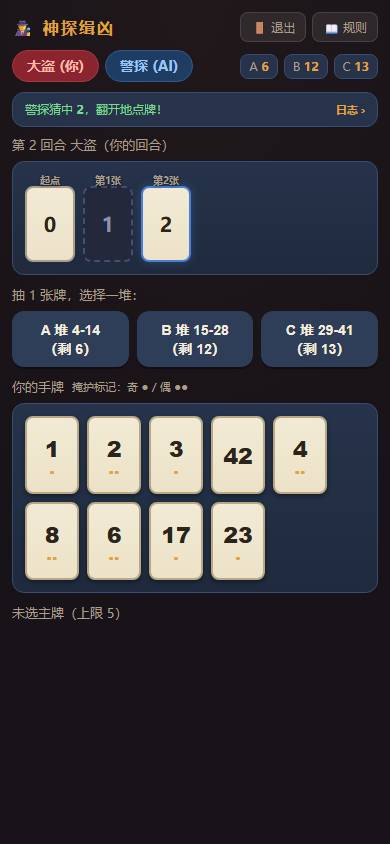
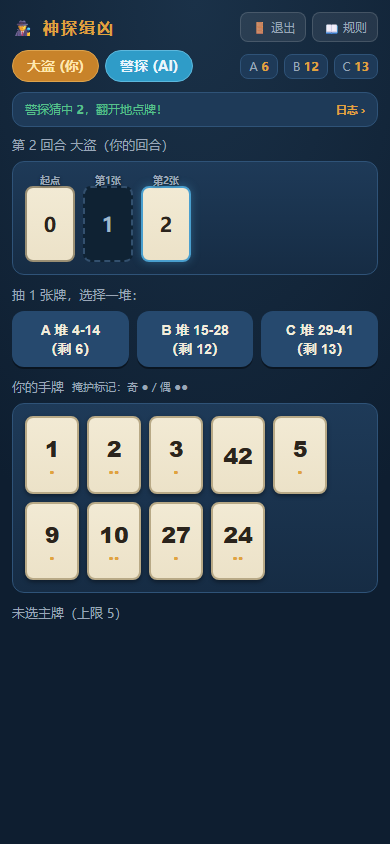
feat(神探缉凶配色优化)

diff --git a/fugitive/style.css b/fugitive/style.css
@@ -1,20 +1,25 @@
 :root {
-  /* 原版桌游配色：手提箱绯红 · 版图夜蓝 · 侦探绿 · 提示板米纸 */
-  --bg:#20181b;          /* 深红褐黑（盒身暗部） */
-  --bg-2:#181318;        /* 渐变暗角 */
-  --surface:#26334a;     /* 版图夜蓝（面板） */
-  --card-bg:#2e3d58;     /* 深蓝卡面（版图街底色） */
-  --paper:#ece2c8;       /* 提示板米纸（卡牌/网格） */
+  /* 深蓝夜色主题：配色取自 Fugitive II 盒子封面（夜空蓝主族 90% + 暖色人物点缀） */
+  --bg:#1a3148;          /* 夜空蓝底 */
+  --bg-2:#0e1e30;        /* 夜空暗角 */
+  --surface:#1e3a58;     /* 面板蓝 */
+  --surface-2:#162c44;   /* 面板渐变下部 */
+  --line:#2f5378;        /* 蓝描边 */
+  --card-bg:#26496e;     /* 按钮底 */
+  --paper:#ece2c8;       /* 米纸卡面（暖点缀，同原版卡牌/盒面人物） */
   --ink:#2b241c;         /* 米纸上深棕数字 */
-  --ink-dim:#8a7f6a;     /* 米纸上弱化文字 */
-  --accent:#a82934;      /* 盒子绯红（主按钮/警探主色） */
-  --accent-hi:#c33a44;   /* 绯红亮面 */
-  --fug:#8a2530;         /* 大盗酒红 */
-  --gold:#e0a33e;        /* 暖金（线索/掩护） */
-  --text:#f4ecdc;        /* 暖白正文 */
-  --text-dim:#a99f8b;    /* 暖灰弱化 */
-  --safe:#3e6b4f;        /* 侦探绿（命中/翻开） */
-  --danger:#d0454c;      /* 失误红 */
+  --ink-dim:#9a8f74;     /* 米纸上弱化文字 */
+  --accent:#d9902f;      /* 琥珀金（大盗/主按钮） */
+  --accent-hi:#e8a94d;   /* 琥珀亮面 */
+  --fug:#c8832a;         /* 深琥珀（大盗标签） */
+  --mar:#2f9cc8;         /* 亮蓝（警探/翻开） */
+  --mar-hi:#57b5da;      /* 亮蓝亮面 */
+  --gold:#e0a33e;        /* 暖金（线索/掩护/标题） */
+  --text:#f2ecdc;        /* 暖白正文 */
+  --text-dim:#9aa7b8;    /* 蓝灰弱化 */
+  --safe:#4daa7d;        /* 命中青绿 */
+  --danger:#e2555a;      /* 失误红 */
+  --shadow:rgba(0,0,0,.35);
   --radius:12px; --btn-h:56px;
 }
 * { margin:0; padding:0; box-sizing:border-box; -webkit-tap-highlight-color:transparent; }
@@ -22,30 +27,35 @@ body { font-family:-apple-system,system-ui,"PingFang SC","Microsoft YaHei",sans-
 #app { max-width:520px; margin:0 auto; padding:12px 12px 0; }
 
 /* ===== 通用 ===== */
-.btn { height:var(--btn-h); padding:0 20px; border:none; border-radius:var(--radius); background:var(--card-bg); color:var(--text); font-size:16px; font-weight:600; cursor:pointer; box-shadow:0 2px 0 rgba(0,0,0,.35); }
-.btn:active { filter:brightness(1.3); }
-.btn-primary { background:linear-gradient(180deg, var(--accent-hi), var(--accent)); }
-.btn-gold { background:linear-gradient(180deg, #e8b45c, var(--gold)); color:#2b241c; }
+.btn { height:var(--btn-h); padding:0 20px; border:none; border-radius:var(--radius); background:var(--card-bg); color:var(--text); font-size:16px; font-weight:600; cursor:pointer; box-shadow:0 2px 0 rgba(0,0,0,.4); }
+.btn:active { filter:brightness(1.25); }
+.btn-primary { background:linear-gradient(180deg, var(--accent-hi), var(--accent)); color:#33270f; }
+/* 登录页身份卡：大盗=--fug色系，警探=--mar色系，随机=描边金幽灵（2026-08-31） */
+.btn-fug { background:linear-gradient(180deg, var(--accent-hi), var(--fug)); color:#33270f; box-shadow:0 2px 0 #7a5313; }
+.role-btn.btn-fug .de { color:#3f2d0a; }
+.btn-mar { background:linear-gradient(180deg, var(--mar-hi), var(--mar)); color:#0c2033; box-shadow:0 2px 0 #176083; }
+.role-btn.btn-mar .de { color:#0f3144; }
+.btn-random { background:transparent; border:1.5px solid var(--gold); color:var(--gold); box-shadow:none; }
+.role-btn.btn-random .de { color:#c9a45c; }
 .btn-ghost { background:transparent; border:1px solid var(--text-dim); color:var(--text-dim); box-shadow:none; }
 .btn:disabled { opacity:.4; box-shadow:none; }
 .badge { display:inline-block; padding:3px 10px; border-radius:999px; font-size:12px; font-weight:700; }
 
 /* ===== 登录页（居中布局，参考无赖勇者/月面探险） ===== */
 #landing { display:flex; flex-direction:column; align-items:center; justify-content:center; min-height:calc(100dvh - 30px); padding:40px 20px 30px; text-align:center; position:relative; }
-#landing .hero-icon { font-size:52px; margin-bottom:10px; filter:drop-shadow(0 0 16px rgba(224,163,62,.35)); animation:heroFloat 3.2s ease-in-out infinite; }
-@keyframes heroFloat { 0%,100% { transform:translateY(0); } 50% { transform:translateY(-6px); } }
+#landing .hero-icon { font-size:52px; margin-bottom:10px; filter:drop-shadow(0 0 16px rgba(224,163,62,.35)); }
 #landing h1 { font-size:34px; letter-spacing:6px; margin-bottom:8px; color:var(--gold); text-shadow:0 2px 0 rgba(0,0,0,.5); }
 #landing .sub { color:var(--text-dim); font-size:14px; letter-spacing:3px; margin-bottom:18px; }
-#landing .badge { background:var(--fug); color:var(--gold); margin-bottom:32px; font-size:13px; padding:6px 16px; }
+#landing .badge { background:var(--surface); color:#ffe6b0; margin-bottom:32px; font-size:13px; padding:6px 16px; }
 .role-btn { display:flex; flex-direction:row; align-items:center; gap:14px; width:min(320px,86vw); height:auto; min-height:68px; padding:10px 18px; margin-bottom:12px; text-align:left; }
 .role-btn .em { font-size:28px; flex-shrink:0; }
 .role-btn .rt { display:flex; flex-direction:column; gap:2px; line-height:1.35; }
 .role-btn .rt b { font-size:16px; }
 .role-btn .de { font-size:12px; color:var(--text-dim); font-weight:400; }
-.btn-gold .de { color:#6b5420; }
+.btn-blue .de { color:#cfe6f5; }
 #landing .rules-corner { position:absolute; top:max(16px, env(safe-area-inset-top)); right:16px; }
-#landing .rules-corner button { background:var(--surface); border:1px solid rgba(255,255,255,0.12); border-radius:10px; padding:7px 12px; font-size:13px; cursor:pointer; color:var(--text); }
-#landing .rules-corner button:active { background:#252530; }
+#landing .rules-corner button { background:var(--surface); border:1px solid rgba(255,255,255,.14); border-radius:10px; padding:7px 12px; font-size:13px; cursor:pointer; color:var(--text); }
+#landing .rules-corner button:active { background:#27405f; }
 .credit { position:absolute; bottom:14px; left:0; right:0; color:var(--text-dim); font-size:12px; opacity:.7; }
 
 /* ===== 顶栏（两行：标题行 / 角色+牌堆行） ===== */
@@ -54,35 +64,35 @@ body { font-family:-apple-system,system-ui,"PingFang SC","Microsoft YaHei",sans-
 .tb-title { font-size:16px; margin:0; color:var(--gold); letter-spacing:2px; display:flex; align-items:center; gap:6px; }
 .tb-btns { display:flex; gap:6px; }
 .role-tag { padding:6px 14px; border-radius:999px; font-size:14px; font-weight:700; }
-.role-fug { background:var(--fug); color:#ffb9a8; border:1px solid #a83740; }
-.role-mar { background:#1f3d63; color:#9cc6f5; border:1px solid #2f5a8f; }
+.role-fug { background:var(--fug); color:#ffe6b0; border:1px solid #dda34d; }
+.role-mar { background:var(--mar); color:#eaf6fc; border:1px solid #5db8dd; }
 .tb-left { display:flex; align-items:center; gap:6px; }
 .tb-right { display:flex; align-items:center; gap:6px; flex-wrap:wrap; }
 .pile-box { display:flex; gap:6px; }
-.pile { background:var(--surface); border:1px solid #3a4d70; border-radius:8px; padding:4px 8px; font-size:12px; color:var(--text-dim); }
+.pile { background:var(--surface); border:1px solid var(--line); border-radius:8px; padding:4px 8px; font-size:12px; color:var(--text-dim); }
 .pile b { color:var(--gold); }
-.icon-btn { background:rgba(255,255,255,0.08); border:1px solid rgba(255,255,255,0.12); color:var(--text-dim); padding:6px 10px; border-radius:8px; font-size:12px; cursor:pointer; }
-.icon-btn:active { background:rgba(255,255,255,0.16); }
+.icon-btn { background:rgba(255,255,255,.08); border:1px solid rgba(255,255,255,.14); color:var(--text-dim); padding:6px 10px; border-radius:8px; font-size:12px; cursor:pointer; }
+.icon-btn:active { background:rgba(255,255,255,.16); }
 .hint { font-size:13px; color:var(--text-dim); margin:4px 0 8px; }
 
 /* ===== 出牌区 ===== */
-#track { display:flex; flex-wrap:wrap; gap:20px 8px; align-items:flex-start; padding:24px 12px 12px; background:linear-gradient(180deg, var(--surface), #1f2a3e); border:1px solid #3a4d70; border-radius:var(--radius); min-height:110px; margin-bottom:12px; }
+#track { display:flex; flex-wrap:wrap; gap:20px 8px; align-items:flex-start; padding:24px 12px 12px; background:linear-gradient(180deg, var(--surface), var(--surface-2)); border:1px solid var(--line); border-radius:var(--radius); min-height:110px; margin-bottom:12px; }
 .t-card { position:relative; width:calc((100% - 40px)/6); height:76px; border-radius:8px; display:flex; flex-direction:column; align-items:center; justify-content:center; font-weight:800; font-size:20px; flex-shrink:0; }
 .t-card .idx { position:absolute; top:-14px; left:0; right:0; text-align:center; font-size:10px; color:var(--text-dim); text-shadow:0 1px 3px rgba(0,0,0,.6); }
 .t-card .sprint { font-size:9px; color:var(--text-dim); font-weight:400; margin-top:2px; }
 .t-card .cov { font-size:9px; color:var(--ink-dim); font-weight:400; margin-top:2px; }
-.t-open { background:linear-gradient(180deg, #f2ead4, var(--paper)); border:2px solid #4a7fd4; color:var(--ink); box-shadow:0 0 10px rgba(74,127,212,.35); }
-.t-hidden { background:#23283a; border:2px dashed #454e6e; color:#8a93b5; }
-.t-hidden .q { color:#5a6484; font-size:26px; }
-.t-hidden .cov { color:#7c86a8; }
+.t-open { background:linear-gradient(180deg, #f2ead4, var(--paper)); border:2px solid #4a9fce; color:var(--ink); box-shadow:0 0 10px rgba(74,159,206,.4); }
+.t-hidden { background:#0f2233; border:2px dashed #33506e; color:#9fb8cc; }
+.t-hidden .q { color:#6c8aa6; font-size:26px; }
+.t-hidden .cov { color:#8aa6bd; }
 .t-arrow { align-self:center; color:var(--text-dim); font-size:16px; }
-.t-start { border:2px solid var(--text-dim); background:linear-gradient(180deg, #f2ead4, var(--paper)); color:var(--ink); }
+.t-start { border:2px solid var(--ink-dim); background:linear-gradient(180deg, #f2ead4, var(--paper)); color:var(--ink); }
 
 /* ===== 手牌区 ===== */
 .section-title { font-size:13px; color:var(--text-dim); margin:4px 0 8px; display:flex; align-items:center; gap:8px; }
-#hand { display:flex; flex-wrap:wrap; gap:8px; padding:12px; background:linear-gradient(180deg, var(--surface), #1f2a3e); border:1px solid #3a4d70; border-radius:var(--radius); min-height:96px; margin-bottom:12px; }
+#hand { display:flex; flex-wrap:wrap; gap:8px; padding:12px; background:linear-gradient(180deg, var(--surface), var(--surface-2)); border:1px solid var(--line); border-radius:var(--radius); min-height:96px; margin-bottom:12px; }
 .h-card { width:54px; height:78px; border-radius:8px; background:linear-gradient(180deg, #f2ead4, var(--paper)); border:2px solid #b8a986; color:var(--ink); display:flex; flex-direction:column; align-items:center; justify-content:center; font-size:22px; font-weight:800; cursor:pointer; position:relative; flex-shrink:0; box-shadow:0 2px 4px rgba(0,0,0,.4); }
-.h-card .mk { font-size:9px; color:var(--gold); /*letter-spacing:-2px;*/ margin-top:1px; }
+.h-card .mk { font-size:9px; color:var(--gold); margin-top:1px; }
 .h-card.sel-main { border-color:var(--accent); background:linear-gradient(180deg, #e8c9b0, #e0b89c); transform:translateY(-6px); }
 .h-card.sel-cover { border-color:var(--gold); background:linear-gradient(180deg, #efe3c2, #e2cf9f); }
 .h-card.sel-cover::after { content:'掩'; position:absolute; top:-8px; right:-6px; background:var(--gold); color:#2b241c; font-size:10px; border-radius:6px; padding:1px 5px; font-weight:800; }
@@ -96,32 +106,37 @@ body { font-family:-apple-system,system-ui,"PingFang SC","Microsoft YaHei",sans-
 .pick-label { font-size:13px; color:var(--text-dim); margin-bottom:8px; }
 
 /* ===== 警探猜测网格（提示板纸感） ===== */
-.num-grid { display:grid; grid-template-columns:repeat(7,1fr); gap:6px; padding:12px; background:linear-gradient(180deg, var(--surface), #1f2a3e); border:1px solid #3a4d70; border-radius:var(--radius); margin-bottom:12px; }
+.num-grid { display:grid; grid-template-columns:repeat(7,1fr); gap:6px; padding:12px; background:linear-gradient(180deg, var(--surface), var(--surface-2)); border:1px solid var(--line); border-radius:var(--radius); margin-bottom:12px; }
 .g-cell { height:40px; border:none; border-radius:8px; background:linear-gradient(180deg, #f2ead4, var(--paper)); color:var(--ink); font-size:15px; font-weight:700; cursor:pointer; box-shadow:0 1px 2px rgba(0,0,0,.35); }
 .g-cell:disabled { opacity:.3; cursor:default; box-shadow:none; }
-.g-cell.sel { background:var(--accent-hi); color:#fff; transform:scale(1.08); }
+.g-cell.sel { background:var(--accent-hi); color:#33270f; transform:scale(1.08); }
 .g-cell.sel-warn { background:var(--danger); color:#fff; transform:scale(1.08); }
 
 /* ===== 日志（单行置顶 + 抽屉） ===== */
-#log { background:var(--surface); border:1px solid #3a4d70; border-radius:var(--radius); padding:9px 12px; margin-bottom:10px; font-size:12px; color:var(--text-dim); cursor:pointer; display:flex; align-items:center; gap:6px; }
+#log { background:var(--surface); border:1px solid var(--line); border-radius:var(--radius); padding:9px 12px; margin-bottom:10px; font-size:12px; color:var(--text-dim); cursor:pointer; display:flex; align-items:center; gap:6px; }
 #log .ld-msg { overflow:hidden; text-overflow:ellipsis; white-space:nowrap; }
 #log .log-more { flex-shrink:0; margin-left:auto; color:var(--gold); font-size:11px; font-weight:700; }
-#log .lg-hit { color:#7fd68f; }
+#log .lg-hit { color:#58c08c; }
 #log .lg-miss { color:#ff8a80; }
-#log .lg-fug { color:#ffb9a8; }
-#log .lg-mar { color:#9cc6f5; }
-.ld-item { padding:8px 0; border-bottom:1px solid #3a4d70; font-size:13px; line-height:1.5; color:var(--text-dim); }
+#log .lg-fug { color:#e8a94d; }
+#log .lg-mar { color:#7cc0e8; }
+.ld-item { padding:6px 0; border-bottom:1px solid var(--line); font-size:13px; line-height:1.5; color:var(--text-dim); }
+.ld-item .ld-time { font-size:11px; margin-right:8px; color:var(--text-dim); }
+.ld-item .lg-hit { color:#58c08c; }
+.ld-item .lg-miss { color:#ff8a80; }
+.ld-item .lg-fug { color:#e8a94d; }
+.ld-item .lg-mar { color:#7cc0e8; }
 .ld-item:last-child { border-bottom:none; }
 .sheet-foot { font-size:11px; color:var(--text-dim); text-align:center; margin:10px 0; }
 
 /* ===== 气泡对话 ===== */
 #bubble-layer { position:fixed; left:0; right:0; top:64px; z-index:90; display:flex; flex-direction:column; gap:8px; padding:0 16px; pointer-events:none; }
 .bubble { max-width:78%; padding:10px 14px; border-radius:16px; font-size:15px; font-weight:600; line-height:1.4; box-shadow:0 4px 16px rgba(0,0,0,.5); animation:popIn .22s ease; }
-.bubble-mar { background:linear-gradient(180deg, #2c5480, #22436a); color:#cfe4fb; border:1px solid #3f6ea4; }
-.bubble-fug { background:linear-gradient(180deg, #a02f3a, #83222c); color:#ffd9c9; border:1px solid #c0444f; }
+.bubble-mar { background:linear-gradient(180deg, #245a80, #1d4a6b); color:#cfe6f5; border:1px solid #2f6f9e; }
+.bubble-fug { background:linear-gradient(180deg, #8a5c1e, #6e4715); color:#ffe6b8; border:1px solid #a5762c; }
 .bubble.mine { align-self:flex-end; border-bottom-right-radius:4px; }
 .bubble.theirs { align-self:flex-start; border-bottom-left-radius:4px; }
-#toast { position:fixed; left:50%; bottom:110px; transform:translateX(-50%) translateY(10px); background:rgba(24,20,24,.94); border:1px solid #3a4d70; color:var(--text); padding:10px 18px; border-radius:10px; font-size:14px; opacity:0; pointer-events:none; transition:opacity .22s ease, transform .22s ease; z-index:120; box-shadow:0 4px 16px rgba(0,0,0,.5); }
+#toast { position:fixed; left:50%; bottom:110px; transform:translateX(-50%) translateY(10px); background:rgba(10,18,30,.95); border:1px solid #33506e; color:var(--text); padding:10px 18px; border-radius:10px; font-size:14px; opacity:0; pointer-events:none; transition:opacity .22s ease, transform .22s ease; z-index:120; box-shadow:0 4px 16px rgba(0,0,0,.5); }
 #toast.show { opacity:1; transform:translateX(-50%) translateY(0); }
 
 /* ===== 翻面动画 ===== */
@@ -130,29 +145,29 @@ body { font-family:-apple-system,system-ui,"PingFang SC","Microsoft YaHei",sans-
 .t-card.flip-out { transform:rotateY(90deg); }
 .t-card.flip-in { animation:flipIn .3s ease; }
 .t-card.chk { cursor:pointer; }
-.t-card .chk-hint { font-size:9px; color:#7a83a8; font-weight:400; margin-top:2px; text-align:center; line-height:1.4; }
+.t-card .chk-hint { font-size:9px; color:#7a8aa6; font-weight:400; margin-top:2px; text-align:center; line-height:1.4; }
 
 /* ===== 警探标记网格 ===== */
 .grid-tools { display:flex; align-items:center; gap:8px; margin-bottom:8px; flex-wrap:wrap; }
 .grid-mode-btn { height:32px; padding:0 12px; font-size:12px; }
 .grid-legend { font-size:11px; color:var(--text-dim); display:flex; align-items:center; gap:5px; margin-left:auto; flex-wrap:wrap; }
 .gd { display:inline-block; width:12px; height:12px; border-radius:3px; margin-right:2px; }
-.gd-open { background:#3e6b4f; }
-.gd-cover { background:#7ca982; }
-.gd-hand { background:#2f5a8f; }
-.gd-suspect { background:#c9a13b; }
-.g-cell.m-open { background:#3e6b4f; color:#eaf2e4; box-shadow:inset 0 0 0 1px rgba(255,255,255,.15); }
-.g-cell.m-cover { background:#7ca982; color:#223a26; box-shadow:inset 0 0 0 1px rgba(0,0,0,.12); }
-.g-cell.m-hand { background:#2f5a8f; color:#cfe4fb; box-shadow:inset 0 0 0 1px rgba(255,255,255,.15); }
-.g-cell.m-suspect { background:#c9a13b; color:#33280e; box-shadow:inset 0 0 0 1px rgba(0,0,0,.15); }
-.g-cell.sel { background:var(--accent-hi); color:#fff; transform:scale(1.08); }
+.gd-open { background:#4daa7d; }
+.gd-cover { background:#7cc4a8; }
+.gd-hand { background:#2f9cc8; }
+.gd-suspect { background:#d9a13b; }
+.g-cell.m-open { background:#4daa7d; color:#eaf6ef; box-shadow:inset 0 0 0 1px rgba(255,255,255,.15); }
+.g-cell.m-cover { background:#7cc4a8; color:#223a2e; box-shadow:inset 0 0 0 1px rgba(0,0,0,.15); }
+.g-cell.m-hand { background:#2f9cc8; color:#eaf6fc; box-shadow:inset 0 0 0 1px rgba(255,255,255,.15); }
+.g-cell.m-suspect { background:#d9a13b; color:#33280e; box-shadow:inset 0 0 0 1px rgba(0,0,0,.15); }
+.g-cell.sel { background:var(--accent-hi); color:#33270f; transform:scale(1.08); }
 
 /* ===== 模态框 ===== */
-.modal-overlay { position:fixed; inset:0; background:rgba(12,8,10,.78); z-index:100; display:flex; align-items:flex-end; justify-content:center; opacity:0; pointer-events:none; transition:opacity .2s; }
+.modal-overlay { position:fixed; inset:0; background:rgba(8,14,24,.78); z-index:100; display:flex; align-items:flex-end; justify-content:center; opacity:0; pointer-events:none; transition:opacity .2s; }
 .modal-overlay.show { opacity:1; pointer-events:auto; }
-.modal { background:linear-gradient(180deg, var(--surface), #1e2940); border-radius:20px 20px 0 0; width:100%; max-width:520px; max-height:80dvh; overflow-y:auto; padding:24px 20px; padding-bottom:max(24px, env(safe-area-inset-bottom)); transform:translateY(100%); transition:transform .25s ease-out; }
+.modal { background:linear-gradient(180deg, var(--surface), var(--surface-2)); border-radius:20px 20px 0 0; width:100%; max-width:520px; max-height:80dvh; overflow-y:auto; padding:24px 20px; padding-bottom:max(24px, env(safe-area-inset-bottom)); transform:translateY(100%); transition:transform .25s ease-out; }
 .modal-overlay.show .modal { transform:translateY(0); }
-.modal h3 { margin-bottom:12px; color:var(--gold); }
+.modal h3 { margin-bottom:12px; color:var(--gold); text-align:center; }
 .modal p, .modal li { font-size:13px; line-height:1.7; color:var(--text-dim); margin-bottom:6px; }
 .modal ul { padding-left:18px; }
 .modal .btn { width:100%; }
@@ -161,14 +176,14 @@ body { font-family:-apple-system,system-ui,"PingFang SC","Microsoft YaHei",sans-
 .win-banner { text-align:center; padding:20px 0 8px; }
 .win-banner .big { font-size:26px; font-weight:800; letter-spacing:2px; }
 .win-fug .big { color:var(--gold); }
-.win-mar .big { color:#9cc6f5; }
+.win-mar .big { color:#7cc0e8; }
 .win-banner .sub { color:var(--text-dim); font-size:13px; margin-top:6px; }
-#final-track { display:flex; flex-wrap:wrap; gap:20px 8px; padding:24px 12px 12px; background:linear-gradient(180deg, var(--surface), #1f2a3e); border:1px solid #3a4d70; border-radius:var(--radius); margin:14px 0; align-items:center; }
+#final-track { display:flex; flex-wrap:wrap; gap:20px 8px; padding:24px 12px 12px; background:linear-gradient(180deg, var(--surface), var(--surface-2)); border:1px solid var(--line); border-radius:var(--radius); margin:14px 0; align-items:center; }
 #final-track .t-arrow { display:none; }
 #final-track .t-card.chk { cursor:pointer; }
 #final-track .t-card.chk .cov { display:block; max-width:100%; overflow:hidden; text-overflow:ellipsis; white-space:nowrap; }
 #stats { display:flex; gap:10px; margin-bottom:14px; }
-#stats .s { flex:1; background:var(--surface); border:1px solid #3a4d70; border-radius:var(--radius); padding:10px; text-align:center; }
+#stats .s { flex:1; background:var(--surface); border:1px solid var(--line); border-radius:var(--radius); padding:10px; text-align:center; }
 #stats .s b { display:block; font-size:20px; color:var(--gold); }
 #stats .s span { font-size:11px; color:var(--text-dim); }
 

diff --git a/fugitive/game.js b/fugitive/game.js
@@ -643,8 +643,8 @@ function logLineHTML(){
 }
 function openLogDrawer(){
   const items = state.log.slice().reverse().map(l =>
-    '<div class="ld-item"><span class="' + (l.cls||'') + '">' + fmtTime(l.t) + '</span> ' + l.msg + '</div>').join('');
-  openSheet('操作日志（时间倒序）', items + '<div class="sheet-foot">共 ' + state.log.length + ' 条</div>');
+    '<div class="ld-item"><span class="ld-time">' + fmtTime(l.t) + '</span><span class="' + (l.cls||'') + '">' + l.msg + '</span></div>').join('');
+  openSheet('📅 操作日志', items + '<div class="sheet-foot">共 ' + state.log.length + ' 条</div>');
 }
 function fmtTime(t){
   if(!t) return '';
@@ -934,12 +934,27 @@ function renderOver(){
   const revealCount = state.fug.route.filter(r=>!r.hidden).length;
   const fugCards = state.fug.route.filter(r=>r.num!==42).length;
   return '' +
+    '<div id="topbar">' +
+      '<div class="tb-row">' +
+        '<h2 class="tb-title">🕵 神探缉凶</h2>' +
+        '<div class="tb-btns">' +
+          '<button class="icon-btn" onclick="quitGame()">🚪 退出</button>' +
+          '<button class="icon-btn" onclick="showModal(\'rules\')">📖 规则</button>' +
+        '</div>' +
+      '</div>' +
+      '<div class="tb-row">' +
+        '<div class="tb-left">' + roleTag('fugitive') + roleTag('marshal') + '</div>' +
+        '<div class="tb-right">' +
+          '<div class="pile-box">' + PILES.map(p => '<span class="pile">' + p.key + ' <b>' + state.piles[p.key].length + '</b></span>').join('') + '</div>' +
+        '</div>' +
+      '</div>' +
+    '</div>' +
     logLineHTML() +
     '<div class="win-banner win-' + (state.winner==='fugitive'?'fug':'mar') + '">' +
-      '<div class="big">' + (humanWin ? '你赢了！' : '你输了…') + '</div>' +
-      '<div class="sub">' + (state.winner==='fugitive' ? '大盗成功逃脱！' : '警探成功抓捕！') +
-        ' · 你扮演 ' + (state.humanRole==='fugitive'?'大盗':'警探') +
-        ' · 共 ' + state.turns + ' 回合 · 翻开 ' + revealCount + ' 张地点牌</div>' +
+      '<div class="big">' + (humanWin ? '😎你赢了' : '😭你输了…') + '</div>' +
+      '<div class="sub">' + (state.winner==='fugitive' ? '大盗成功逃脱！' : '警探成功抓捕大盗！') +
+        // ' · 你扮演 ' + (state.humanRole==='fugitive'?'大盗':'警探') +
+        // ' · 共 ' + state.turns + ' 回合 · 翻开 ' + revealCount + ' 张地点牌</div>' +
     '</div>' +
     '<div id="final-track">' +
       '<div class="t-card t-start"><b>0</b><div class="idx">起点</div></div>' +
@@ -999,9 +1014,9 @@ function showLanding(){
       '<h1>神探缉凶</h1>' +
       '<div class="sub">Fugitive · 人机对战</div>' +
       '<div class="badge">🏙 大盗藏匿 警探追捕</div>' +
-      '<button class="btn btn-primary role-btn" onclick="newGame(\'fugitive\')"><span class="em">🕶</span><span class="rt"><b>扮演 大盗</b><span class="de">暗放地点牌，冲刺到 42 逃脱</span></span></button>' +
-      '<button class="btn role-btn" onclick="newGame(\'marshal\')"><span class="em">🕵</span><span class="rt"><b>扮演 警探</b><span class="de">猜数字，翻开全部藏身处</span></span></button>' +
-      '<button class="btn btn-gold role-btn" id="btn-random"><span class="em">🎲</span><span class="rt"><b>随机身份</b><span class="de">系统替你决定</span></span></button>' +
+      '<button class="btn btn-fug role-btn" onclick="newGame(\'fugitive\')"><span class="em">🕶</span><span class="rt"><b>扮演 大盗</b><span class="de">暗放地点牌，冲刺到 42 逃脱</span></span></button>' +
+      '<button class="btn btn-mar role-btn" onclick="newGame(\'marshal\')"><span class="em">🕵</span><span class="rt"><b>扮演 警探</b><span class="de">猜数字，翻开全部藏身处</span></span></button>' +
+      '<button class="btn btn-random role-btn" id="btn-random"><span class="em">🎲</span><span class="rt"><b>随机身份</b><span class="de">系统替你决定</span></span></button>' +
       '<div class="credit">@imStar100</div>' +
     '</div>';
   document.getElementById('btn-random').onclick = function(){
@@ -1028,7 +1043,7 @@ function modalHTML(){
       '<li><b>第一回合</b>：大盗放 1~2 张；警探抽 2 张并必须猜测。</li>' +
       '<li><b>后续回合</b>：大盗抽 1 张后，可放 1 张或跳过；警探抽 1 张后必须猜测。</li>' +
       '<li><b>猜测</b>：可猜任意 1~41 数字（不消耗手牌）。单猜命中即翻开（掩护牌一并翻开）；多猜须全部命中才翻。已公开 / 手牌数字不可再猜，猜过未中的数字可再猜。</li>' +
-      '<li><b>搜捕</b>：打出 42 时若已翻开地点牌无大于 30 的数字，警探进入搜捕：依次单猜全部暗牌，猜错即大盗胜。</li>' +
+      '<li><b>搜捕</b>：大盗打出 42 时若已翻开地点牌均不大于 30 ，警探进入搜捕：依次单猜全部暗牌，猜错即大盗胜，全对则警探获胜。</li>' +
     '</ul>' +
     '<button class="btn btn-primary" onclick="closeModal(\'rules\')">知道了</button>' +
   '</div></div>' +

diff --git a/fugitive/test-e2e.js b/fugitive/test-e2e.js
@@ -507,7 +507,7 @@ async function setup(page, patch){
     await page.click('#log');
     await waitFor(page, () => document.getElementById('sheet').classList.contains('show'), 5000, '日志抽屉弹出');
     const drawerTitle = await page.evaluate(() => document.getElementById('sheet-title').textContent);
-    assert(drawerTitle.includes('操作日志') && drawerTitle.includes('倒序'), '抽屉标题含倒序');
+    assert(drawerTitle.includes('操作日志'), '抽屉标题含操作日志');
     const firstItem = await page.evaluate(() => document.querySelector('#sheet-body .ld-item').textContent);
     assert(firstItem.includes(lastMsg), '抽屉首条为最新日志');
     const drawerCount = await page.evaluate(() => document.querySelectorAll('#sheet-body .ld-item').length);

diff --git a/fugitive/SPEC.md b/fugitive/SPEC.md
@@ -108,10 +108,12 @@ state = {
 
 ## 四、UI 布局（手机竖屏）
 
-### 配色方案（原版桌游灵感，2026-08-31 重绘）
-- 手提箱绯红 `#a82934`（主按钮/大盗）· 版图夜蓝 `#26334a`（面板渐变）· 侦探绿 `#3e6b4f`（已翻开）· 提示板米纸 `#ece2c8`（卡牌/网格底）· 暖金 `#e0a33e`（强调/金币）
-- 卡牌与网格为米纸渐变 + 深墨字 `#2b241c`；背景深色径向渐变；角色标签大盗酒红/警探深蓝
-- 标记色：绿-已翻开 / 浅绿-已作掩护 / 蓝-在手牌 / 黄-怀疑（手动标记）
+### 配色方案（深蓝夜色风，2026-08-31 重绘，配色取自 Fugitive II 盒子封面像素采样）
+- 盒面主色板：夜空蓝 200°（约 40%）· 深蓝黑 190°（约 30%）· 中蓝 220°（约 20%）——**蓝色族合计约 90%**，暖肤 30° 与亮蓝 200° 仅作少量点缀（合计 <5%）
+- 和谐要点：单一蓝族铺底（背景→面板→描边按明度递进），琥珀金/暖橙只做角色标识与主按钮，避免多高饱和色并置撞色
+- 本作映射：**夜空蓝底** `#1a3148`（背景，渐变至 `#0e1e30`）· **面板** `#1e3a58`（`--surface`，`--surface-2:#162c44`）· **蓝描边** `#2f5378` · **按钮底** `#26496e` · **米纸卡面** `#ece2c8` + 墨棕字 `#2b241c`（网格/牌面高对比，沿袭原版纸牌感）· **琥珀金** `#d9902f`（大盗/主按钮/标题）· **亮蓝** `#2f9cc8`（警探/次按钮）· **芥末金** `#e0a33e`（掩护/线索）· **草绿** `#4daa7d`（已翻开/命中）· **失误红** `#e2555a`
+- 暗置牌：深蓝黑 `#0f2233` 虚线边 `#33506e`，显示「？」+「掩护×N」；气泡深蓝（警探 `#245a80`）/琥珀棕（大盗 `#8a5c1e`）底浅色字
+- 标记色：绿-已翻开 / 浅绿-已作掩护 / 亮蓝-在手牌 / 琥珀黄-怀疑（手动标记）
 
 ### 登录页（无缓存时）
 - 标题「神探缉凶 · 人机对战」、身份选择：大盗 / 警探 / 随机
